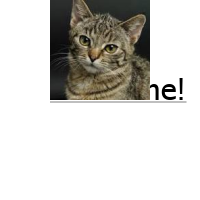
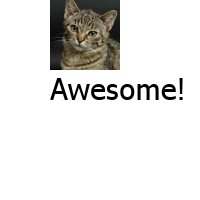
update: Implement websocket server

Changed region(s): [[0.24, 0.0, 0.93, 0.54]]

diff --git a/server/src/index.ts b/server/src/index.ts
@@ -1,33 +1,34 @@
-import {server as WebSocketServer} from 'websocket';
+import {connection, server as WebSocketServer} from 'websocket';
 import http from 'http';
+import { IncomingMessages, SupportedMessage } from './messages/IncomingMessages';
+import { UserManager } from './user/UserManager';
+import { OutgoingMessage, SupportedMessage as OutgoingSupportedMessage } from './messages/outgoingMessages';
+import { InMemoryStore } from './store/InMemoryStore';
 
 var server = http.createServer(function(request, response) {
     console.log((new Date()) + ' Received request for ' + request.url);
     response.writeHead(404);
     response.end();
 });
+
+const userManager = new UserManager();
+const store = new InMemoryStore();
+
 server.listen(8080, function() {
     console.log((new Date()) + ' Server is listening on port 8080');
 });
 
 const wsServer = new WebSocketServer({
     httpServer: server,
-    // You should not use autoAcceptConnections for production
-    // applications, as it defeats all standard cross-origin protection
-    // facilities built into the protocol and the browser.  You should
-    // *always* verify the connection's origin and decide whether or not
-    // to accept it.
     autoAcceptConnections: false
 });
 
 function originIsAllowed(origin: string) {
-  // put logic here to detect whether the specified origin is allowed.
   return true;
 }
 
 wsServer.on('request', function(request) {
     if (!originIsAllowed(request.origin)) {
-      // Make sure we only accept requests from an allowed origin
       request.reject();
       console.log((new Date()) + ' Connection from origin ' + request.origin + ' rejected.');
       return;
@@ -38,10 +39,46 @@ wsServer.on('request', function(request) {
     connection.on('message', function(message) {
         if (message.type === 'utf8') {
             console.log('Received Message: ' + message.utf8Data);
-            connection.sendUTF(message.utf8Data);
+            // connection.sendUTF(message.utf8Data);
+            requestHandler(connection, JSON.parse(message.utf8Data));
         }
     });
-    connection.on('close', function(reasonCode, description) {
-        console.log((new Date()) + ' Peer ' + connection.remoteAddress + ' disconnected.');
-    });
 });
+
+
+const requestHandler = (ws: connection, message: IncomingMessages) => {
+    if(message.type == SupportedMessage.JOIN) {
+        const {canvasId, userId, name} = message.payload;
+
+        userManager.addUser(canvasId, userId, name, ws);
+
+        const outgoingMessage: OutgoingMessage  = {
+            type: OutgoingSupportedMessage.JOIN,
+            payload: {
+                canvasId,
+                userId,
+                name
+            }
+        }
+
+        userManager.broadcast(canvasId, userId, outgoingMessage);
+        
+    } else if(message.type == SupportedMessage.DRAW) {
+        const {canvasId, userId, x, y, name} = message.payload;
+
+        store.addCursor(canvasId, userId, x, y, name);
+
+        const outgoingMessage: OutgoingMessage = {
+            type: OutgoingSupportedMessage.DRAW,
+            payload: {
+                canvasId,
+                userId, 
+                x,
+                y,
+                name
+            }
+        }
+
+        userManager.broadcast(canvasId, userId, outgoingMessage);
+    }
+}

diff --git a/server/src/user/UserManager.ts b/server/src/user/UserManager.ts
@@ -1,4 +1,5 @@
 import { connection } from "websocket";
+import { OutgoingMessage } from "../messages/outgoingMessages";
 
 interface User {
     id: string;
@@ -36,6 +37,12 @@ export class UserManager {
             name,
             conn: socket
         })
+
+        socket.on('close', (reasonCode, description) => {
+            console.log((new Date()) + ' Peer ' + socket.remoteAddress + ' disconnected.');
+            console.log(`UserId: ${userId} disconnected`);
+            this.removeUser(canvasId, userId);
+        });
     }
 
     removeUser(canvasId: string, userId: string) {
@@ -55,5 +62,33 @@ export class UserManager {
         }
     }
 
+    getUser(canvasId: string, userId: string) {
+        if(!this.canvas.get(canvasId)) {
+            return;
+        }
+
+        const canvas = this.canvas.get(canvasId);
+
+        return canvas?.users.find(({id}) => id == userId);
+    }
+
+    broadcast(canvasId: string, userId: string, message: OutgoingMessage) {
+        const user = this.getUser(canvasId, userId);
+
+        if(!user) {
+            console.log('User not found');
+            return;
+        }
+
+        if(!this.canvas.get(canvasId)) {
+            return;
+        }
+
+        const canvas = this.canvas.get(canvasId);
+
+        canvas?.users.forEach(({conn}) => {
+            conn.sendUTF(JSON.stringify(message));
+        })
+    }
 
 }

diff --git a/server/src/store/InMemoryStore.ts b/server/src/store/InMemoryStore.ts
@@ -19,7 +19,29 @@ export class InMemoryStore implements Store {
         })
     }
 
-    draw(x: number, y: number) {
-        
+    addCursor(canvasId: string, userId: string, x: number, y: number, name: string) {
+        if(!this.canvas.get(canvasId)) {
+            this.initCanvas(canvasId);
+        }
+
+        const canvas = this.canvas.get(canvasId);
+
+        canvas?.cursor.push({
+            id: `${userId}-${Date.now()}`,
+            userId,
+            name,
+            x,
+            y
+        })
+    }
+
+    getCursors(canvasId: string) {
+        const canvas = this.canvas.get(canvasId);
+
+        if(!canvas) {
+            return [];
+        }
+
+        return canvas.cursor;
     }
 }

diff --git a/frontend/src/App.jsx b/frontend/src/App.jsx
@@ -1,4 +1,5 @@
 import React, { useRef, useState } from "react";
+import { useEffect } from "react";
 
 const styles = {
   canvas: {
@@ -10,6 +11,13 @@ function App() {
   const [isDrawing, setIsDrawing] = useState(false);
 
   const canvasRef = useRef();
+
+  useEffect(() => {
+    const ws = new WebSocket("ws://localhost:8080", "echo-protocol");
+    ws.onopen = () => {
+      console.log("Connected to server");
+    };
+  }, []);
 
   return (
     <canvas

diff --git a/dummy/index.js b/dummy/index.js
@@ -10,10 +10,13 @@ ctx.fillText("Awesome!", 50, 100);
 
 // Draw line under text
 var text = ctx.measureText("Awesome");
-ctx.strokeStyle = "rgba(0,0,0,0.5)";
+ctx.strokeStyle = "white";
 ctx.beginPath();
+ctx.lineWidth = 5;
+ctx.lineCap = "round";
+ctx.moveTo(50, 102);
 ctx.lineTo(50, 102);
-ctx.lineTo(50 + text.width, 102);
+// ctx.lineTo(50 + text.width, 102);
 ctx.stroke();
 
 // Draw cat with lime helmet

diff --git a/server/src/store/Store.ts b/server/src/store/Store.ts
@@ -1,7 +1,7 @@
 
 export interface Cursor {
     id: string;
-    userId: number;
+    userId: string;
     name: string;
     x: number;
     y: number;
@@ -16,7 +16,11 @@ export abstract class Store {
 
     }
 
-    draw(x: number, y: number) {
+    addCursor(canvasId: string, userId: string, x: number, y: number, name: string) {
 
+    }
+
+    getCursors(canvasId: string) {
+        
     }
 }

diff --git a/server/src/messages/outgoingMessages.ts b/server/src/messages/outgoingMessages.ts
@@ -1,0 +1,21 @@
+export enum SupportedMessage {
+    JOIN = 'JOIN',
+    DRAW = 'DRAW'
+}
+
+type MessagePayload = {
+    canvasId: string;
+    userId: string;
+    name: string;
+    x: number;
+    y: number;
+}
+
+export type OutgoingMessage = {
+    type: SupportedMessage.DRAW,
+    payload: MessagePayload
+} | {
+    type: SupportedMessage.JOIN,
+    payload: Partial<MessagePayload>
+}
+

diff --git a/server/src/messages/IncomingMessages.ts b/server/src/messages/IncomingMessages.ts
@@ -26,7 +26,8 @@ export const DrawMessage = z.object({
     canvasId: z.string(),
     userId: z.string(),
     x: z.number(),
-    y: z.number()
+    y: z.number(),
+    name: z.string()
 })
 
 export type DrawMessageType = z.infer<typeof DrawMessage>;
